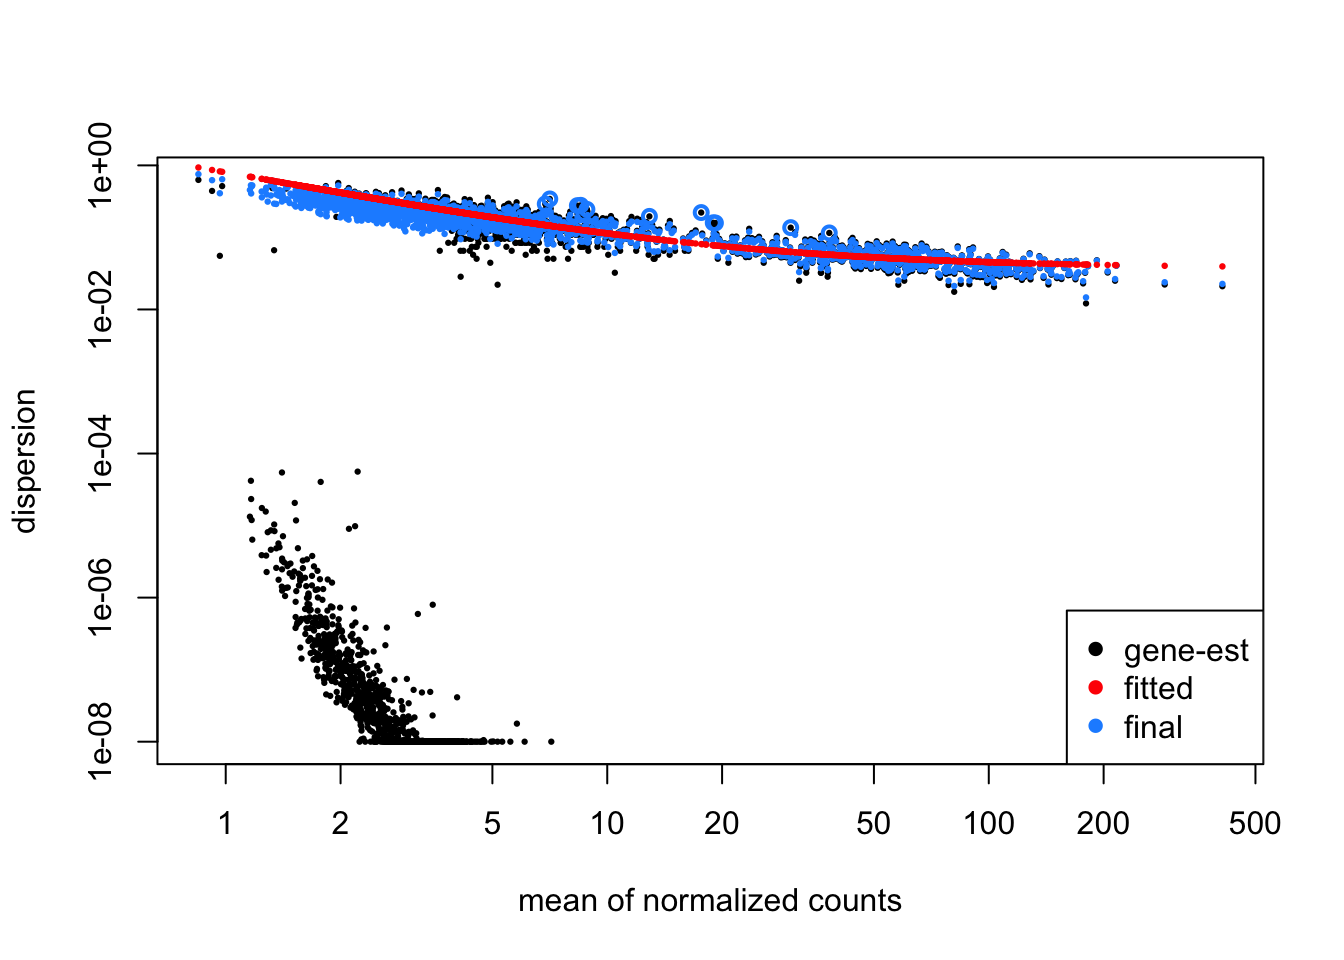
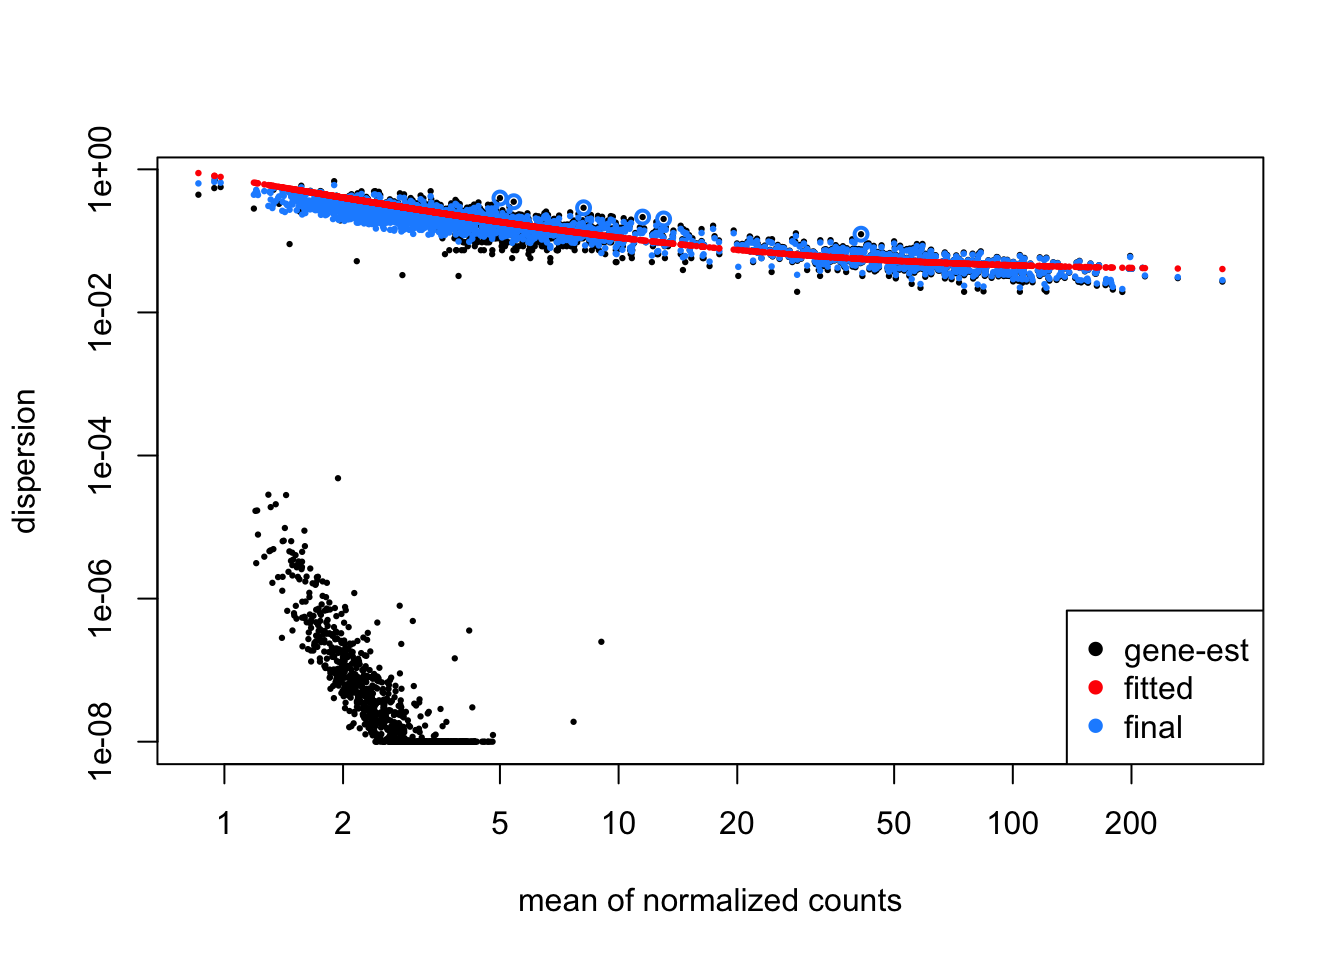
working on workflow

diff --git a/zinbwave-apeglm.knit.md b/zinbwave-apeglm.knit.md
@@ -1,11 +1,20 @@
 ---
-title: "ZINB-WaVE + apeglm integration for single-cell RNA-seq"
+title: "ZINB-WaVE + apeglm for single-cell RNA-seq"
 author: "Michael Love"
 output: html_document
 ---
 
-Here we use the *splatter* package to simulate single-cell RNA-seq
-data.
+This document closely follows a similar
+one, [zinbwave-deseq2](https://github.com/mikelove/zinbwave-deseq2),
+showing integration of *zinbwave* with *DESeq2*. The difference is
+that here we additionally assess when *apeglm* effect size estimation
+may provide a benefit for zero-inflated Negative Binomial count data,
+as may be produced in a single cell RNA-seq experiment (scRNA-seq).
+*apeglm* effect sizes appear useful in the case that the groups of
+cells we want to compare have small sample size, e.g. here the two
+groups being compared have ~20 cells per group.
+
+We use the *splatter* package to simulate single-cell RNA-seq data.
 
 * Zappia, Phipson, and Oshlack "Splatter: simulation of single-cell RNA
 sequencing data" *Genome Biology* (2017)
@@ -26,6 +35,8 @@ RNA-seq tools for zero inflation and single-cell applications" *Genome Biology* 
 > technical (e.g., dropout) and biological (e.g., bursting) zeros. 
 
 
+
+
 ```r
 suppressPackageStartupMessages(library(splatter))
 params <- newSplatParams()
@@ -37,7 +48,7 @@ params <- setParam(params, "de.prob", .01)
 params <- setParam(params, "dropout.type", "experiment")
 params <- setParam(params, "dropout.mid", 2)
 # three groups, we will show apeglm improvements on the two small groups
-sim <- splatSimulate(params, group.prob=c(.15, .15, .7),
+sim <- splatSimulate(params, group.prob=c(.2, .2, .6),
                      method="groups", seed=1)
 ```
 
@@ -88,7 +99,7 @@ table(sim$Group)
 ```
 ## 
 ## Group1 Group2 Group3 
-##     13     19     68
+##     17     26     57
 ```
 
 ```r
@@ -103,7 +114,7 @@ table(keep)
 ```
 ## keep
 ## FALSE  TRUE 
-##  7845  2155
+##  7879  2121
 ```
 
 ```r
@@ -180,13 +191,7 @@ lfc2 <- lfcShrink(dds, coef=2, type="apeglm")
 ```r
 library(apeglm)
 library(ZIM)
-```
 
-```
-## Loading required package: MASS
-```
-
-```r
 Y <- counts(dds)
 design <- model.matrix(design(dds), data=colData(dds))
 disps <- dispersions(dds)
@@ -224,16 +229,167 @@ myplot <- function(x,y,n=20,...) {
   points(x[idx], y[idx], col="blue", cex=2)
   abline(0,1,col="red")
   legend("topleft",
-    legend=c(paste("cor =",
-      round(cor(x,y,use="complete"),3)),
+      legend=c(
+      paste("cor =",
+            round(cor(x,y,use="complete"),3)),
+      paste("MAE top =",
+            round(mean(abs(x[idx]-y[idx]), na.rm=TRUE),3)),
       paste("MAE =",
-      round(mean(abs(x[idx]-y[idx]), na.rm=TRUE),3))))
+            round(mean(abs(x-y), na.rm=TRUE),3))))
 }
 par(mfrow=c(2,2), mar=c(2,3,2,1))
 myplot(mcols(dds)$log2FC, lfc1$log2FoldChange, main="normal")
-myplot(mcols(dds)$log2FC, lfc2$log2FoldChange, main="apeglm wt NB")
-myplot(mcols(dds)$log2FC, lfc3, main="apeglm ZINB")
 myplot(mcols(dds)$log2FC, simple.lfc, main="pseudocount")
+myplot(mcols(dds)$log2FC, lfc2$log2FoldChange, main="apeglm + weight NB")
+myplot(mcols(dds)$log2FC, lfc3, main="apeglm + ZINB lik")
 ```
 
 <img src="zinbwave-apeglm_files/figure-html/plotlfc-1.png" width="672" />
+
+
+```r
+session_info()
+```
+
+```
+## Session info -------------------------------------------------------------
+```
+
+```
+##  setting  value                       
+##  version  R version 3.5.0 (2018-04-23)
+##  system   x86_64, darwin15.6.0        
+##  ui       X11                         
+##  language (EN)                        
+##  collate  en_US.UTF-8                 
+##  tz       Europe/Rome                 
+##  date     2018-07-10
+```
+
+```
+## Packages -----------------------------------------------------------------
+```
+
+```
+##  package              * version   date       source         
+##  acepack                1.4.1     2016-10-29 CRAN (R 3.5.0) 
+##  ADGofTest              0.3       2011-12-28 CRAN (R 3.5.0) 
+##  annotate               1.58.0    2018-05-01 Bioconductor   
+##  AnnotationDbi          1.42.1    2018-05-08 Bioconductor   
+##  apeglm               * 1.2.0     2018-05-01 Bioconductor   
+##  assertthat             0.2.0     2017-04-11 CRAN (R 3.5.0) 
+##  backports              1.1.2     2017-12-13 cran (@1.1.2)  
+##  base                 * 3.5.0     2018-04-24 local          
+##  base64enc              0.1-3     2015-07-28 CRAN (R 3.5.0) 
+##  bbmle                  1.0.20    2017-10-30 CRAN (R 3.5.0) 
+##  bindr                  0.1.1     2018-03-13 CRAN (R 3.5.0) 
+##  bindrcpp               0.2.2     2018-03-29 CRAN (R 3.5.0) 
+##  Biobase              * 2.40.0    2018-05-01 Bioconductor   
+##  BiocGenerics         * 0.26.0    2018-05-01 Bioconductor   
+##  BiocInstaller        * 1.30.0    2018-05-04 Bioconductor   
+##  BiocParallel         * 1.14.1    2018-05-06 Bioconductor   
+##  bit                    1.1-14    2018-05-29 CRAN (R 3.5.0) 
+##  bit64                  0.9-7     2017-05-08 CRAN (R 3.5.0) 
+##  bitops                 1.0-6     2013-08-17 CRAN (R 3.5.0) 
+##  blob                   1.1.1     2018-03-25 CRAN (R 3.5.0) 
+##  checkmate              1.8.5     2017-10-24 CRAN (R 3.5.0) 
+##  cluster                2.0.7-1   2018-04-13 CRAN (R 3.5.0) 
+##  coda                   0.19-1    2016-12-08 CRAN (R 3.5.0) 
+##  codetools              0.2-15    2016-10-05 CRAN (R 3.5.0) 
+##  colorspace             1.3-2     2016-12-14 CRAN (R 3.5.0) 
+##  compiler               3.5.0     2018-04-24 local          
+##  copula                 0.999-18  2017-09-01 CRAN (R 3.5.0) 
+##  data.table             1.11.4    2018-05-27 CRAN (R 3.5.0) 
+##  datasets             * 3.5.0     2018-04-24 local          
+##  DBI                    1.0.0     2018-05-02 CRAN (R 3.5.0) 
+##  DelayedArray         * 0.6.1     2018-06-15 Bioconductor   
+##  DESeq2               * 1.20.0    2018-05-01 Bioconductor   
+##  devtools             * 1.13.6    2018-06-27 CRAN (R 3.5.0) 
+##  digest                 0.6.15    2018-01-28 cran (@0.6.15) 
+##  dplyr                  0.7.5     2018-05-19 cran (@0.7.5)  
+##  edgeR                  3.22.3    2018-06-21 Bioconductor   
+##  emdbook                1.3.9     2016-02-11 CRAN (R 3.5.0) 
+##  evaluate               0.10.1    2017-06-24 CRAN (R 3.5.0) 
+##  foreach                1.4.4     2017-12-12 CRAN (R 3.5.0) 
+##  foreign                0.8-70    2017-11-28 CRAN (R 3.5.0) 
+##  Formula                1.2-3     2018-05-03 CRAN (R 3.5.0) 
+##  genefilter             1.62.0    2018-05-01 Bioconductor   
+##  geneplotter            1.58.0    2018-05-01 Bioconductor   
+##  GenomeInfoDb         * 1.16.0    2018-05-01 Bioconductor   
+##  GenomeInfoDbData       1.1.0     2018-01-10 Bioconductor   
+##  GenomicRanges        * 1.32.3    2018-05-16 Bioconductor   
+##  ggplot2                3.0.0     2018-07-03 CRAN (R 3.5.0) 
+##  glmnet                 2.0-16    2018-04-02 CRAN (R 3.5.0) 
+##  glue                   1.2.0     2017-10-29 CRAN (R 3.5.0) 
+##  graphics             * 3.5.0     2018-04-24 local          
+##  grDevices            * 3.5.0     2018-04-24 local          
+##  grid                   3.5.0     2018-04-24 local          
+##  gridExtra              2.3       2017-09-09 CRAN (R 3.5.0) 
+##  gsl                    1.9-10.3  2017-01-05 CRAN (R 3.5.0) 
+##  gtable                 0.2.0     2016-02-26 CRAN (R 3.5.0) 
+##  Hmisc                  4.1-1     2018-01-03 CRAN (R 3.5.0) 
+##  htmlTable              1.12      2018-05-26 CRAN (R 3.5.0) 
+##  htmltools              0.3.6     2017-04-28 CRAN (R 3.5.0) 
+##  htmlwidgets            1.2       2018-04-19 CRAN (R 3.5.0) 
+##  IRanges              * 2.14.10   2018-05-16 Bioconductor   
+##  iterators              1.0.9     2017-12-12 CRAN (R 3.5.0) 
+##  knitr                  1.20      2018-02-20 CRAN (R 3.5.0) 
+##  lattice                0.20-35   2017-03-25 CRAN (R 3.5.0) 
+##  latticeExtra           0.6-28    2016-02-09 CRAN (R 3.5.0) 
+##  lazyeval               0.2.1     2017-10-29 CRAN (R 3.5.0) 
+##  limma                  3.36.2    2018-06-21 Bioconductor   
+##  locfit                 1.5-9.1   2013-04-20 CRAN (R 3.5.0) 
+##  magrittr               1.5       2014-11-22 CRAN (R 3.5.0) 
+##  MASS                 * 7.3-50    2018-04-30 CRAN (R 3.5.0) 
+##  Matrix                 1.2-14    2018-04-13 CRAN (R 3.5.0) 
+##  matrixStats          * 0.53.1    2018-02-11 CRAN (R 3.5.0) 
+##  memoise                1.1.0     2017-04-21 CRAN (R 3.5.0) 
+##  methods              * 3.5.0     2018-04-24 local          
+##  munsell                0.5.0     2018-06-12 CRAN (R 3.5.0) 
+##  mvtnorm                1.0-7     2018-01-26 CRAN (R 3.5.0) 
+##  nnet                   7.3-12    2016-02-02 CRAN (R 3.5.0) 
+##  numDeriv               2016.8-1  2016-08-27 CRAN (R 3.5.0) 
+##  parallel             * 3.5.0     2018-04-24 local          
+##  pcaPP                  1.9-73    2018-01-14 CRAN (R 3.5.0) 
+##  pillar                 1.2.3     2018-05-25 CRAN (R 3.5.0) 
+##  pkgconfig              2.0.1     2017-03-21 CRAN (R 3.5.0) 
+##  plyr                   1.8.4     2016-06-08 CRAN (R 3.5.0) 
+##  pspline                1.0-18    2017-06-12 CRAN (R 3.5.0) 
+##  purrr                  0.2.5     2018-05-29 cran (@0.2.5)  
+##  R6                     2.2.2     2017-06-17 CRAN (R 3.5.0) 
+##  RColorBrewer           1.1-2     2014-12-07 CRAN (R 3.5.0) 
+##  Rcpp                   0.12.17   2018-05-18 cran (@0.12.17)
+##  RCurl                  1.95-4.10 2018-01-04 CRAN (R 3.5.0) 
+##  rlang                  0.2.1     2018-05-30 cran (@0.2.1)  
+##  rmarkdown            * 1.9       2018-03-01 CRAN (R 3.5.0) 
+##  rpart                  4.1-13    2018-02-23 CRAN (R 3.5.0) 
+##  rprojroot              1.3-2     2018-01-03 cran (@1.3-2)  
+##  RSQLite                2.1.1     2018-05-06 CRAN (R 3.5.0) 
+##  rstudioapi             0.7       2017-09-07 CRAN (R 3.5.0) 
+##  S4Vectors            * 0.18.3    2018-06-08 Bioconductor   
+##  scales                 0.5.0     2017-08-24 CRAN (R 3.5.0) 
+##  SingleCellExperiment * 1.2.0     2018-05-01 Bioconductor   
+##  softImpute             1.4       2015-04-08 CRAN (R 3.5.0) 
+##  splatter             * 1.4.0     2018-05-01 Bioconductor   
+##  splines                3.5.0     2018-04-24 local          
+##  stabledist             0.7-1     2016-09-12 CRAN (R 3.5.0) 
+##  stats                * 3.5.0     2018-04-24 local          
+##  stats4               * 3.5.0     2018-04-24 local          
+##  stringi                1.2.3     2018-06-12 CRAN (R 3.5.0) 
+##  stringr                1.3.1     2018-05-10 CRAN (R 3.5.0) 
+##  SummarizedExperiment * 1.10.1    2018-05-11 Bioconductor   
+##  survival               2.42-3    2018-04-16 CRAN (R 3.5.0) 
+##  testthat             * 2.0.0     2017-12-13 CRAN (R 3.5.0) 
+##  tibble                 1.4.2     2018-01-22 CRAN (R 3.5.0) 
+##  tidyselect             0.2.4     2018-02-26 CRAN (R 3.5.0) 
+##  tools                  3.5.0     2018-04-24 local          
+##  utils                * 3.5.0     2018-04-24 local          
+##  withr                  2.1.2     2018-03-15 CRAN (R 3.5.0) 
+##  XML                    3.98-1.11 2018-04-16 CRAN (R 3.5.0) 
+##  xtable                 1.8-2     2016-02-05 CRAN (R 3.5.0) 
+##  XVector                0.20.0    2018-05-01 Bioconductor   
+##  yaml                   2.1.19    2018-05-01 CRAN (R 3.5.0) 
+##  ZIM                  * 1.0.3     2017-02-06 CRAN (R 3.5.0) 
+##  zinbwave             * 1.2.0     2018-05-01 Bioconductor   
+##  zlibbioc               1.26.0    2018-05-01 Bioconductor
+```
